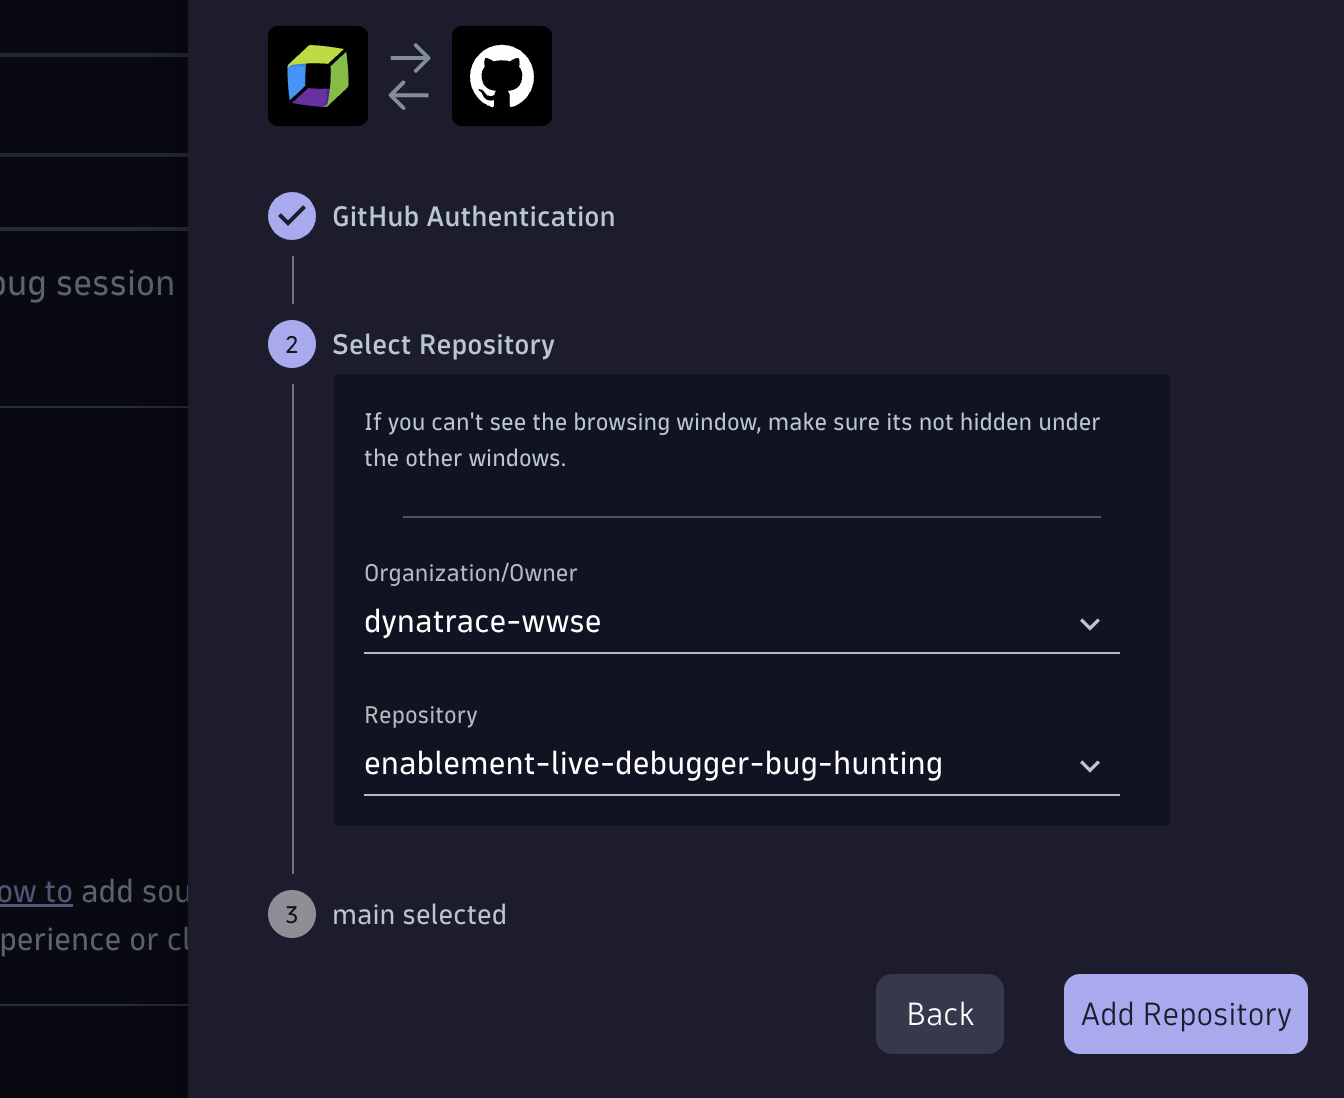
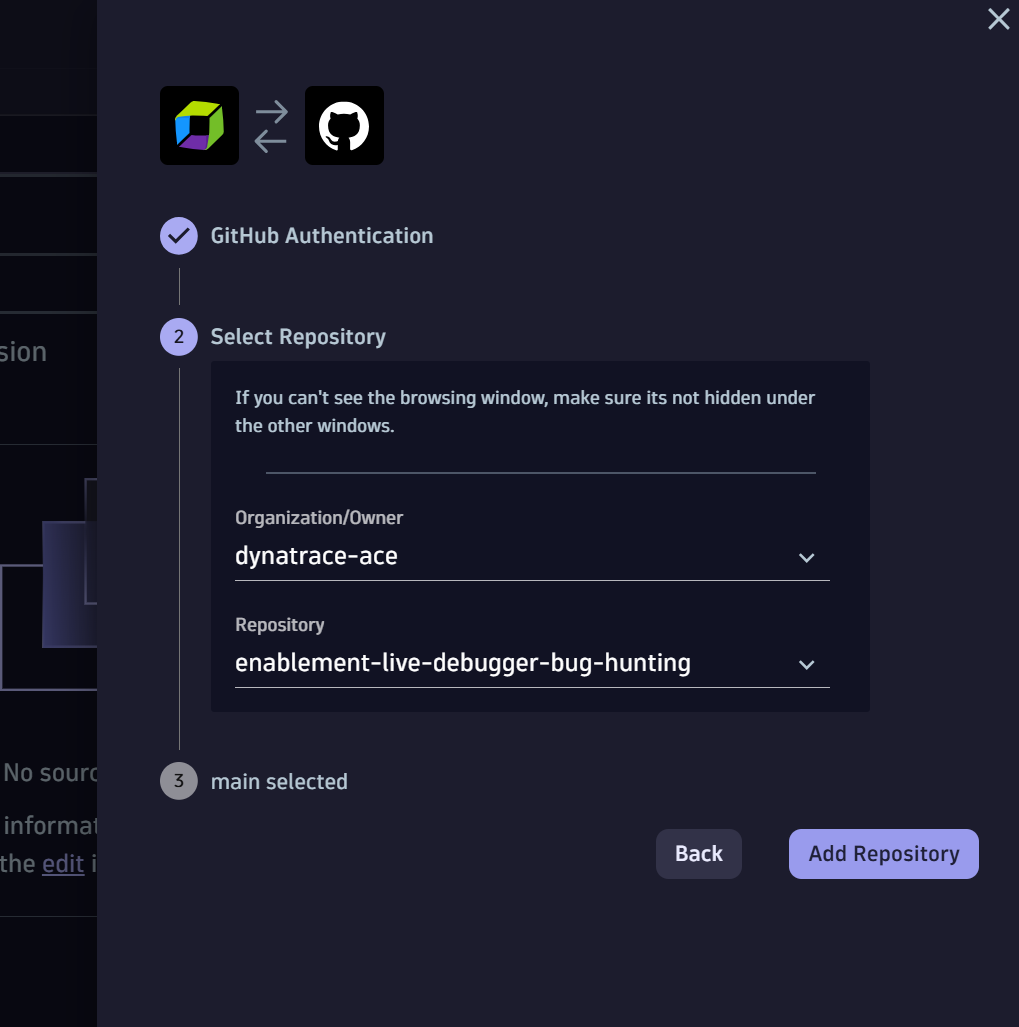
Deployed db4d422 with MkDocs version: 1.6.1

diff --git a/1-bug-hunt-via-k8s/index.html b/1-bug-hunt-via-k8s/index.html
@@ -911,7 +911,7 @@ document.addEventListener('DOMContentLoaded', function() {
 </ul>
 <p><img alt="Todo Workload" src="../img/todo_workload.png" /></p>
 <ul>
-<li>On the Overview in the right hand side, scroll down and open the <code>Services</code> app.  Dynatrace groups telemetry from distributed traces and spans into "Services" for you!</li>
+<li>On the Overview in the right hand side, go to the <code>App Services</code>  and open the <code>Services</code> app.  Dynatrace groups telemetry from distributed traces and spans into "Services" for you!</li>
 </ul>
 <p><img alt="Todo Services" src="../img/todo_services.png" /></p>
 <ul>
@@ -943,7 +943,7 @@ document.addEventListener('DOMContentLoaded', function() {
 </ul>
 <p>Why? we take security very seriously, meaning the source code will never leave the browser, the client. </p>
 <ul>
-<li>In organisation you enter: <code>dynatrace-wwse</code></li>
+<li>In organisation you enter: <code>dynatrace-ace</code></li>
 <li>In Repository you enter this repo: <code>enablement-live-debugger-bug-hunting</code></li>
 </ul>
 <p><img alt="Live Debugger App" src="../img/ld_repo.png" /></p>

diff --git a/getting-started/index.html b/getting-started/index.html
@@ -1043,6 +1043,15 @@ This is already set up for you in the codespaces automatically in the <a href="h
 <div class="highlight"><pre><span></span><code>Kubernetes namespace name = todoapp
 </code></pre></div></p>
 <p>Click on <code>Save changes</code>.</p>
+<p><strong>Enable log/trace enrichment</strong></p>
+<ul>
+<li>Go to Settings &gt; General monitoring settings &gt; OneAgent features.</li>
+<li>Enable:<ul>
+<li>Java - Trace/span context enrichment for logs [Opt-In].</li>
+<li>Java - Trace/span context enrichment for unstructured logs [Opt-In]</li>
+</ul>
+</li>
+</ul>
 <h2 id="2-create-dynatrace-api-tokens-for-kubernetes-observability">2. Create Dynatrace API Tokens for Kubernetes Observability<a class="headerlink" href="#2-create-dynatrace-api-tokens-for-kubernetes-observability" title="Permanent link">#</a></h2>
 <p>This codespace has everything automated for you so you can focus on what matters which in this enablement is to learn about the Live Debugging capabilities of the Dynatrace Platform.  You'll need two tokens:</p>
 <ol>
